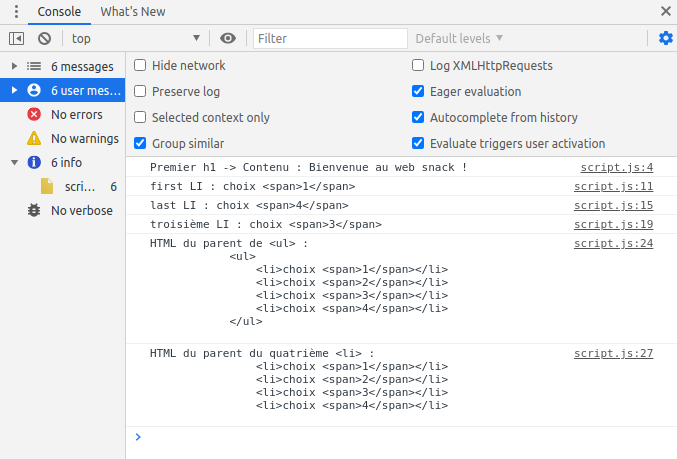
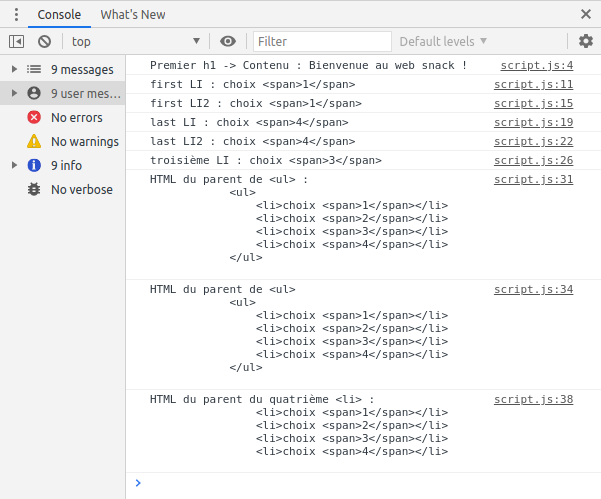
fini

Changed region(s): [[0.0, 0.0, 1.0, 1.0], [0.8087, 0.7625, 0.9584, 0.8235], [0.8087, 0.5795, 0.9584, 0.61]]

diff --git a/Exercice/script.js b/Exercice/script.js
@@ -1,6 +1,6 @@
 //récupérer le texte de la balise h1
 
-let titre = document.getElementsByTagName('h1').textContent;
+let titre = document.querySelector('h1').textContent;
 console.log('Premier h1 -> Contenu : ' + titre);
 
 //on récupère les li
@@ -30,6 +30,9 @@ console.log('troisième LI : ' + thirdLI);
 let parent = document.querySelector('#menu').innerHTML;
 console.log('HTML du parent de <ul> :' + parent);
 
+let parent1 = document.querySelector('ul').parentNode.innerHTML;
+console.log('HTML du parent de <ul>' + parent1);
+
 //afficher parent du quatrième li
 let parents = document.querySelector('li:nth-child(4)').parentNode.innerHTML;
 console.log('HTML du parent du quatrième <li> :' + parents);
@@ -37,16 +40,16 @@ console.log('HTML du parent du quatrième <li> :' + parents);
 //mouseover texte ul en rouge sinon noir
 //je cible l'id de la div qui contient l'ul
 //Addeventlistener pour le mouseover
-document.getElementById('menu').addEventListener("mouseover", mouseOver);
+document.querySelector('ul').addEventListener("mouseover", mouseOver);
 //Addeventlistener pour le mouseout
-document.getElementById('menu').addEventListener("mouseout", mouseOut);
+document.querySelector('ul').addEventListener("mouseout", mouseOut);
 
 //je colore en rouge pour le mouseover
 function mouseOver() {
-  document.getElementById('menu').style.color = "red";
+  document.querySelector('ul').style.color = "red";
 }
 
 //je recolore en noir si mouseout
 function mouseOut() {
-  document.getElementById('menu').style.color = "black";
+  document.querySelector('ul').style.color = "black";
 }
